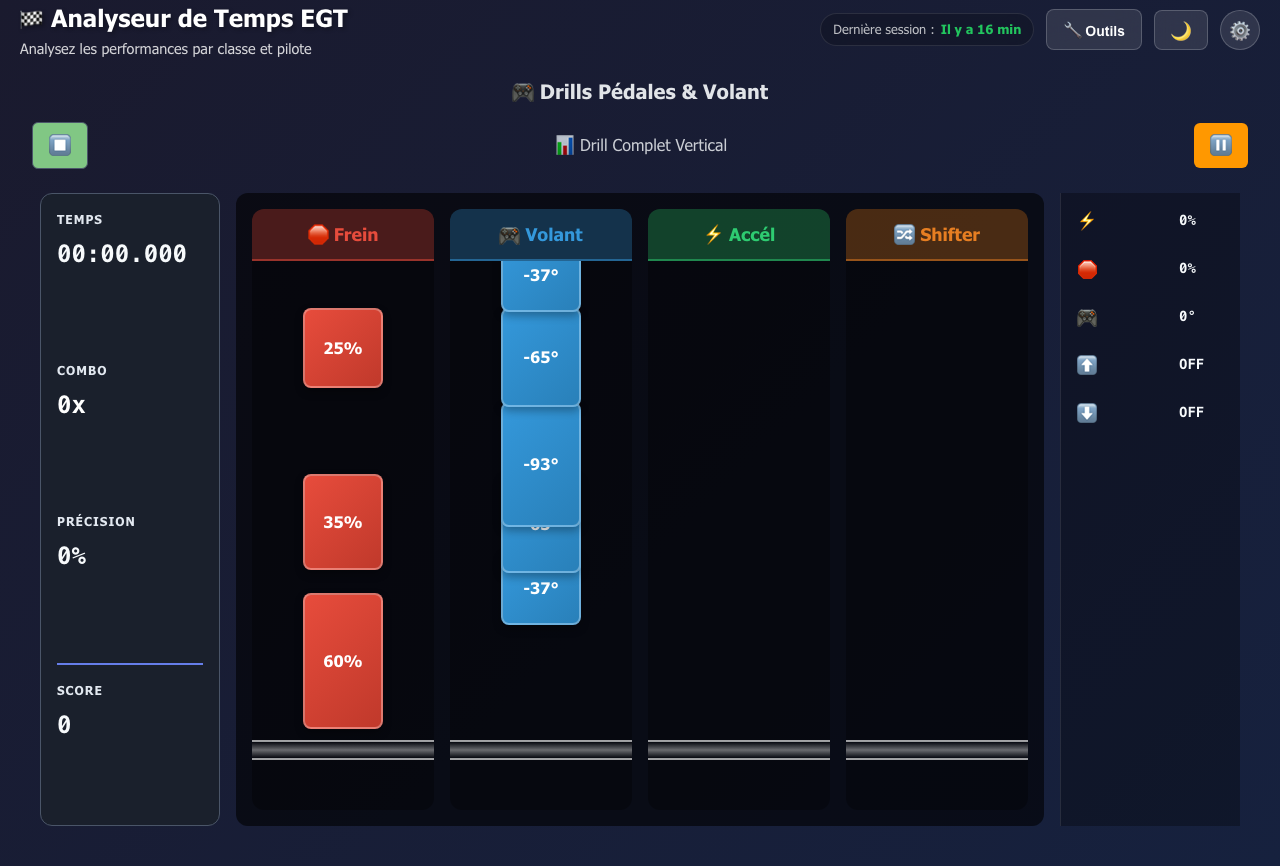
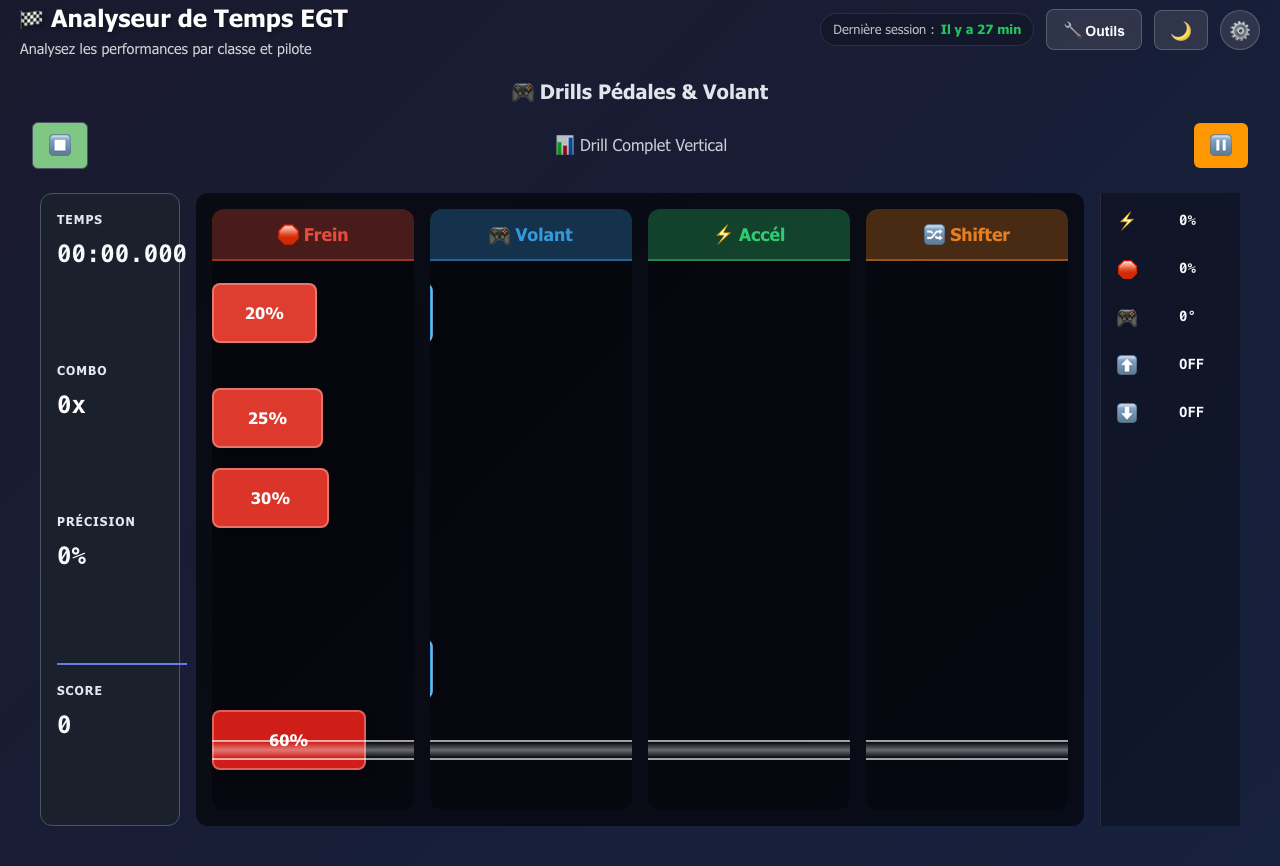
feat: Largeur et couleur proportionnelles pour Drill Vertical
🎨 Amélioration visuelle des cibles du Drill Vertical

## 1⃣ Largeur proportionnelle au pourcentage
- Frein/Accél: largeur = 40% + (percent * 0.6) = 40% à 100%
- Volant: largeur = 40% + (abs(angle)/175 * 60) = 40% à 100%
- Au lieu de hauteur fixe, la largeur reflète maintenant la valeur

## 2⃣ Couleur proportionnelle au pourcentage
- Frein: rouge plus intense pour valeurs élevées (rgb dynamique)
  - 0% = rgb(231, 76, 60)
  - 100% = rgb(191, 0, 0)
- Accél: vert plus intense pour valeurs élevées (rgb dynamique)
  - 0% = rgb(46, 204, 113)
  - 100% = rgb(0, 154, 0)
- Background défini par style inline (override CSS gradient)

## 3⃣ Volant centré avec texte à gauche/droite
- Positif: left: 50%, width: X% (va vers la droite)
- Négatif: right: 50%, width: X%, transform: translateX(-100%) (va vers la gauche)
- Texte: left pour positif, right pour négatif

## 4⃣ Stats plus étroites pour plus de place aux lanes
- Sidebars: 140px (au lieu de 180px)
- Plus d'espace pour les 4 lanes côte à côte
- Meilleure utilisation de l'espace horizontal

✅ Feedback visuel immédiat de la valeur par largeur ET couleur

Changed region(s): [[0.125, 0.2182, 0.4688, 0.9665], [0.5625, 0.2182, 0.9062, 0.9665], [0.625, 0.8418, 0.6875, 0.873]]

diff --git a/frontend/src/components/pedal-wheel-drills/DDRFullGameplayAreaVertical.jsx b/frontend/src/components/pedal-wheel-drills/DDRFullGameplayAreaVertical.jsx
@@ -197,8 +197,14 @@ export function DDRFullGameplayAreaVertical({
               const yPos = getTargetPositionY(target);
               if (yPos < -100 || yPos > 500) return null;
               
-              // Hauteur proportionnelle à la valeur (20% à 100% = 40px à 200px)
-              const height = 40 + (target.percent * 1.6);
+              // Largeur proportionnelle à la valeur (0% à 100% = 40px à 100%)
+              const widthPercent = 40 + (target.percent * 0.6); // 40% à 100% de la lane
+              
+              // Couleur plus intense pour les valeurs plus élevées (rouge)
+              const intensity = target.percent / 100; // 0.0 à 1.0
+              const redValue = Math.round(231 - (intensity * 40)); // 231 à 191
+              const greenValue = Math.round(76 - (intensity * 76)); // 76 à 0
+              const blueValue = Math.round(60 - (intensity * 60)); // 60 à 0
               
               return (
                 <div
@@ -206,7 +212,10 @@ export function DDRFullGameplayAreaVertical({
                   className={`ddr-target-vertical ddr-target-brake-vertical ${target.hit ? 'ddr-target-hit' : ''} ${target.missed ? 'ddr-target-missed' : ''} ${blindMode ? 'ddr-target-blind' : ''}`}
                   style={{
                     top: `${yPos}px`,
-                    height: `${height}px`
+                    left: '0',
+                    width: `${widthPercent}%`,
+                    backgroundColor: `rgb(${redValue}, ${greenValue}, ${blueValue})`,
+                    background: `rgb(${redValue}, ${greenValue}, ${blueValue})`
                   }}
                 >
                   {!blindMode && <span className="ddr-target-value">{target.percent}%</span>}
@@ -233,8 +242,11 @@ export function DDRFullGameplayAreaVertical({
               const yPos = getTargetPositionY(target);
               if (yPos < -100 || yPos > 500) return null;
               
-              // Hauteur proportionnelle à l'angle absolu (0° à 175° = 40px à 200px)
-              const height = 40 + (Math.abs(target.angle) / 175 * 160);
+              // Largeur proportionnelle à l'angle absolu (0° à 175° = 40% à 100%)
+              const widthPercent = 40 + (Math.abs(target.angle) / 175 * 60); // 40% à 100% de la lane
+              
+              // Position : part du centre, va vers la droite (positif) ou gauche (négatif)
+              const isPositive = target.angle >= 0;
               
               return (
                 <div
@@ -242,10 +254,24 @@ export function DDRFullGameplayAreaVertical({
                   className={`ddr-target-vertical ddr-target-wheel-vertical ${target.hit ? 'ddr-target-hit' : ''} ${target.missed ? 'ddr-target-missed' : ''} ${blindMode ? 'ddr-target-blind' : ''}`}
                   style={{
                     top: `${yPos}px`,
-                    height: `${height}px`
+                    width: `${widthPercent}%`,
+                    left: isPositive ? '50%' : 'auto',
+                    right: isPositive ? 'auto' : '50%',
+                    transform: isPositive ? 'none' : 'translateX(-100%)',
+                    justifyContent: isPositive ? 'flex-start' : 'flex-end',
+                    backgroundColor: '#3498db',
+                    background: '#3498db'
                   }}
                 >
-                  {!blindMode && <span className="ddr-target-value">{target.angle}°</span>}
+                  {!blindMode && (
+                    <span className="ddr-target-value" style={{ 
+                      textAlign: isPositive ? 'left' : 'right',
+                      paddingLeft: isPositive ? '8px' : '0',
+                      paddingRight: isPositive ? '0' : '8px'
+                    }}>
+                      {target.angle}°
+                    </span>
+                  )}
                   {target.judgment && (
                     <span className={`ddr-judgment-label ddr-judgment-${target.judgment.toLowerCase()}`}>
                       {target.judgment}
@@ -269,8 +295,14 @@ export function DDRFullGameplayAreaVertical({
               const yPos = getTargetPositionY(target);
               if (yPos < -100 || yPos > 500) return null;
               
-              // Hauteur proportionnelle à la valeur
-              const height = 40 + (target.percent * 1.6);
+              // Largeur proportionnelle à la valeur (0% à 100% = 40px à 100%)
+              const widthPercent = 40 + (target.percent * 0.6); // 40% à 100% de la lane
+              
+              // Couleur plus intense pour les valeurs plus élevées (vert)
+              const intensity = target.percent / 100; // 0.0 à 1.0
+              const redValue = Math.round(46 - (intensity * 46)); // 46 à 0
+              const greenValue = Math.round(204 - (intensity * 50)); // 204 à 154
+              const blueValue = Math.round(113 - (intensity * 113)); // 113 à 0
               
               return (
                 <div
@@ -278,7 +310,10 @@ export function DDRFullGameplayAreaVertical({
                   className={`ddr-target-vertical ddr-target-accel-vertical ${target.hit ? 'ddr-target-hit' : ''} ${target.missed ? 'ddr-target-missed' : ''} ${blindMode ? 'ddr-target-blind' : ''}`}
                   style={{
                     top: `${yPos}px`,
-                    height: `${height}px`
+                    left: '0',
+                    width: `${widthPercent}%`,
+                    backgroundColor: `rgb(${redValue}, ${greenValue}, ${blueValue})`,
+                    background: `rgb(${redValue}, ${greenValue}, ${blueValue})`
                   }}
                 >
                   {!blindMode && <span className="ddr-target-value">{target.percent}%</span>}

diff --git a/frontend/src/components/pedal-wheel-drills/DDRFullGameplayAreaVertical.css b/frontend/src/components/pedal-wheel-drills/DDRFullGameplayAreaVertical.css
@@ -93,20 +93,19 @@
   z-index: 10;
 }
 
-/* Cibles (défilent verticalement) avec hauteur proportionnelle */
+/* Cibles (défilent verticalement) avec largeur proportionnelle */
 .ddr-target-vertical {
   position: absolute;
-  left: 50%;
-  transform: translateX(-50%);
-  width: 80px;
-  /* Hauteur sera définie par style inline selon la valeur */
-  min-height: 40px;
-  max-height: 200px;
+  /* left sera défini par style inline */
+  height: 60px;
+  /* Largeur sera définie par style inline selon la valeur */
+  min-width: 40px;
+  max-width: 100%;
   display: flex;
   align-items: center;
   justify-content: center;
   border-radius: 8px;
-  transition: transform 0.1s ease, opacity 0.2s ease;
+  transition: opacity 0.2s ease;
   font-weight: 700;
   font-size: 1rem;
   box-shadow: 0 4px 8px rgba(0, 0, 0, 0.3);
@@ -114,19 +113,19 @@
   z-index: 5;
 }
 
-/* Couleurs des cibles */
+/* Couleurs des cibles - Background sera défini par style inline */
 .ddr-target-brake-vertical {
-  background: linear-gradient(135deg, #e74c3c 0%, #c0392b 100%);
+  /* Background défini par style inline selon la valeur */
   color: white;
 }
 
 .ddr-target-wheel-vertical {
-  background: linear-gradient(135deg, #3498db 0%, #2980b9 100%);
+  /* Background défini par style inline selon la valeur */
   color: white;
 }
 
 .ddr-target-accel-vertical {
-  background: linear-gradient(135deg, #2ecc71 0%, #27ae60 100%);
+  /* Background défini par style inline selon la valeur */
   color: white;
 }
 

diff --git a/frontend/src/components/pedal-wheel-drills/FullComboVerticalDrill.css b/frontend/src/components/pedal-wheel-drills/FullComboVerticalDrill.css
@@ -26,12 +26,12 @@
   min-height: 0;
 }
 
-/* Sidebars (gauche et droite) */
+/* Sidebars (gauche et droite) - Plus étroites pour donner plus de place aux lanes */
 .full-combo-vertical-sidebar {
   display: flex;
   flex-direction: column;
-  width: 180px;
-  min-width: 180px;
+  width: 140px;
+  min-width: 140px;
 }
 
 .full-combo-vertical-left {
